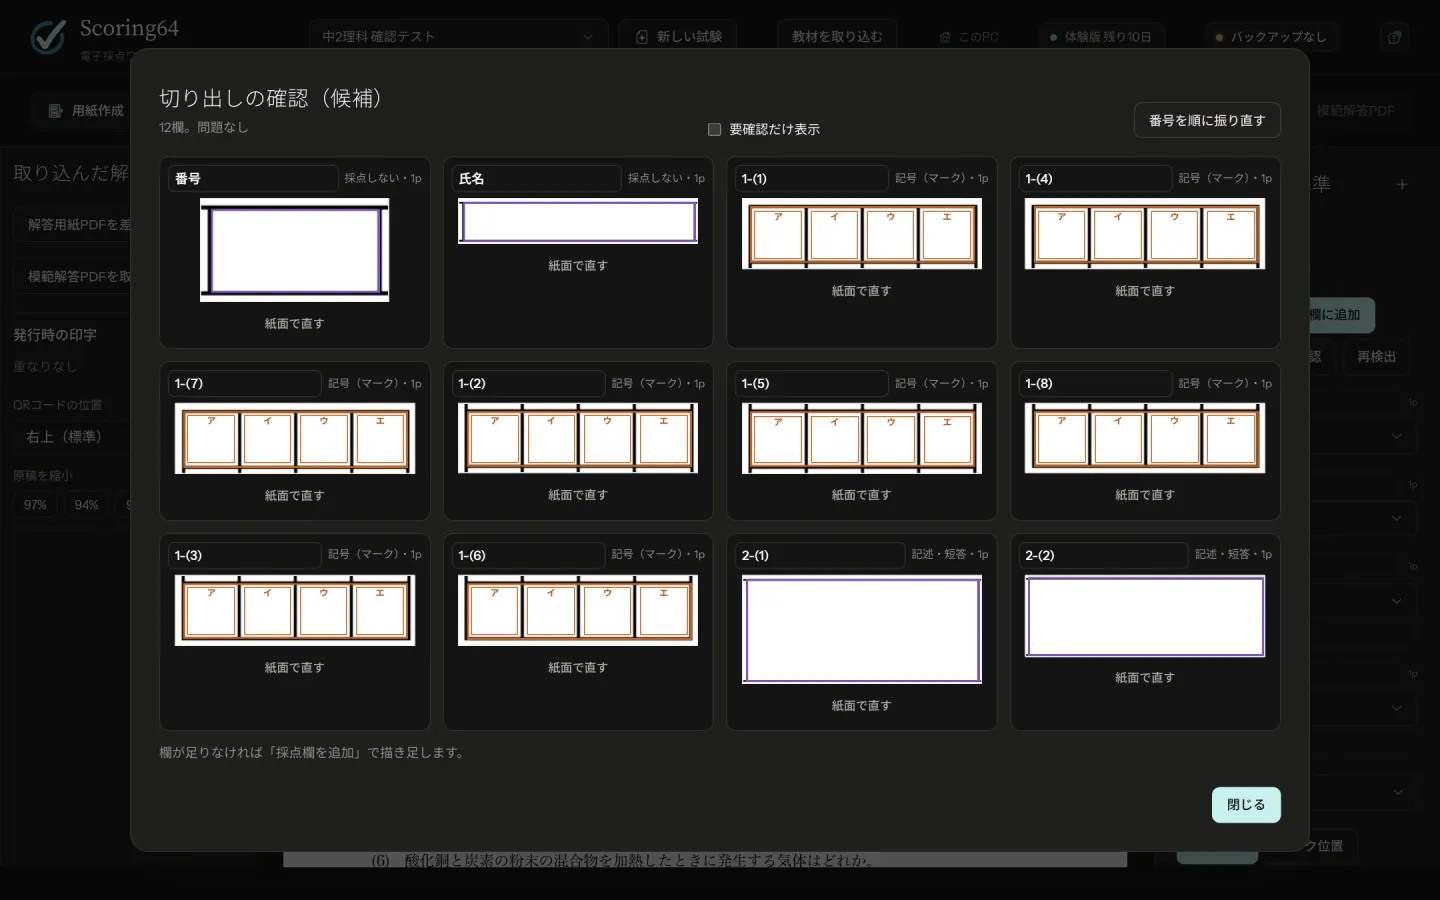
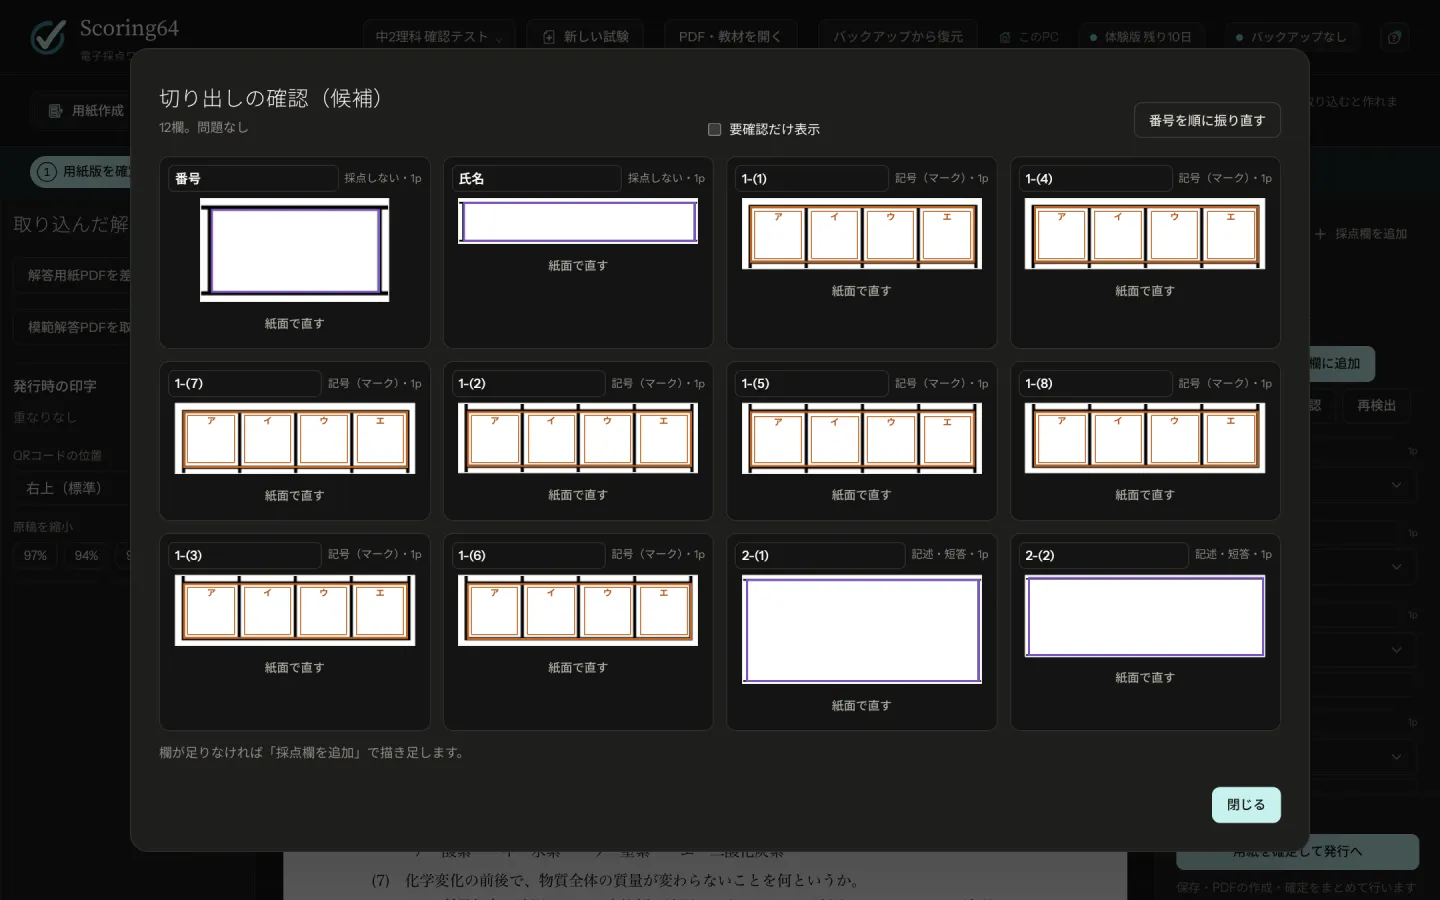
Show the reworked app: new photos and the new button names in the steps

diff --git a/guide.html b/guide.html
@@ -66,7 +66,7 @@
       <p>いつもの Word・Excel のプリントを、そのまま使えます。</p>
       <ol class="steps">
         <li>Word・Excel で<span class="ui">「ファイル」</span>→<span class="ui">「名前を付けて保存」</span>を選び、PDFで保存します。紙しかないときは、300dpiでスキャンしてPDFにします。</li>
-        <li><span class="ui">「教材を取り込む」</span>から、そのPDFを選びます。</li>
+        <li>画面の上の<span class="ui">「PDF・教材を開く」</span>から、そのPDFを選びます。</li>
         <li>解答欄の<b>候補</b>が出ます。紫は記述、橙は記号の欄です。</li>
         <li>候補を1つずつ確かめます。違っていたら、クリックして種類・番号・範囲を直します。</li>
         <li><span class="ui">「採用した候補を採点欄に追加」</span>を押し、<span class="ui">「切り出しを一覧で確認」</span>で範囲を確かめます。</li>
@@ -103,7 +103,7 @@
         <li>右の欄の<span class="ui">「正解・配点を一覧で入力」</span>を押します。</li>
         <li>記号問題の正解を、順に打ちます（例：<code>3142</code>）。Excel の正解表を貼り付けることもできます。</li>
         <li>配点と採点方式を選びます。</li>
-        <li>右上の<span class="ui">「確定用PDFを生成」</span>→<span class="ui">「印刷に使う用紙版を確定」</span>を押します。</li>
+        <li>右上の<span class="ui">「用紙を確定して発行へ」</span>を押します。確かめる点が一覧で出るので、<span class="ui">「保存して確定する」</span>を押します。保存・印刷用PDFの作成・用紙版の確定が続けて進みます。</li>
       </ol>
       <figure class="shot wide">
         <a class="zoom" href="assets/img/s08-answer-key.webp"><img src="assets/img/s08-answer-key.webp" width="1440" height="900" loading="lazy" alt="正解・配点の一覧の画面。問題ごとに正解、配点、採点方式を入れる行が並ぶ"></a>
@@ -132,7 +132,7 @@
       <div class="side">
         <div>
           <ol class="steps">
-            <li><span class="ui">「答案取込」</span>のタブで、人数を入れます。名簿があるときは<span class="ui">「名簿CSVを選ぶ」</span>で読み込みます（見出しは <code>番号,氏名</code>）。</li>
+            <li><span class="ui">「発行・取込」</span>のタブで、人数を入れます。名簿があるときは<span class="ui">「名簿CSVを選ぶ」</span>で読み込みます（1行目が見出し：<code>番号,氏名</code> か <code>組,番,氏名</code>）。</li>
             <li>名前を印刷しておくときは、<span class="ui">「氏名・生徒番号を事前印字」</span>にチェックを入れます。</li>
             <li><span class="ui">「印刷用PDFを作成」</span>を押し、できたPDFを<b>等倍</b>で印刷します。</li>
           </ol>
@@ -146,7 +146,7 @@
           </div>
         </div>
         <figure class="shot tall">
-          <a class="zoom" href="assets/img/s09-issue.webp"><img src="assets/img/s09-issue.webp" width="420" height="908" loading="lazy" alt="用紙の発行の欄。人数、名簿CSVを選ぶ、氏名・生徒番号を事前印字、印刷用PDFを作成のボタンが並ぶ"></a>
+          <a class="zoom" href="assets/img/s09-issue.webp"><img src="assets/img/s09-issue.webp" width="420" height="1073" loading="lazy" alt="用紙の発行の欄。人数、名簿CSVを選ぶ、氏名・生徒番号を事前印字、印刷用PDFを作成のボタンが並ぶ"></a>
           <figcaption><span class="fig-no">図 4</span>用紙の発行</figcaption>
         </figure>
       </div>
@@ -159,8 +159,8 @@
       <h2 id="step4-title">答案をスキャンして取り込む</h2>
       <ol class="steps">
         <li>答案を複合機で読み取り、PDFにします。クラス分をまとめて1つのPDFにして構いません。</li>
-        <li><span class="ui">「PDFを選んで取り込む」</span>から読み込みます。向きと表裏の順番は、QRコードで自動で整えます。</li>
-        <li>上の<span class="ui">「未対応」</span><span class="ui">「答案なし」</span><span class="ui">「氏名を確認」</span>で、残っているものを確かめます。</li>
+        <li>左の<span class="ui">「スキャンPDF」</span>に、PDFを選ぶかドラッグして入れます。複数のファイル・両面にも対応します。向きと表裏の順番は、QRコードで自動で整えます。</li>
+        <li><span class="ui">「取り込んだ答案」</span>の上の<span class="ui">「直すページ」</span>（誰の答案か分からない・位置合わせに失敗・重複）、<span class="ui">「答案がまだない用紙を見る」</span>、<span class="ui">「氏名を確認」</span>で、残っているものを確かめます。</li>
       </ol>
       <table class="table stack" aria-label="スキャナーの設定">
         <tr><th scope="row">解像度</th><td>200〜300dpi</td></tr>
@@ -169,8 +169,8 @@
         <tr><th scope="row">用紙サイズ</th><td>印刷したときと同じ</td></tr>
       </table>
       <figure class="shot wide">
-        <a class="zoom" href="assets/img/s09-scan.webp"><img src="assets/img/s09-scan.webp" width="1440" height="900" loading="lazy" alt="答案取込のタブ。左に用紙の発行とスキャンPDFの取り込み、右に取り込んだ5人分の答案が並ぶ"></a>
-        <figcaption><span class="fig-no">図 5</span>答案取込のタブ。左で発行し、右で取り込んだ答案を確かめます</figcaption>
+        <a class="zoom" href="assets/img/s09-scan.webp"><img src="assets/img/s09-scan.webp" width="1440" height="900" loading="lazy" alt="発行・取込のタブ。左に用紙の発行とスキャンPDFの取り込み、右に取り込んだ5人分の答案が並ぶ"></a>
+        <figcaption><span class="fig-no">図 5</span>発行・取込のタブ。左で発行し、右で取り込んだ答案を確かめます</figcaption>
       </figure>
     </div>
   </section>
@@ -184,8 +184,8 @@
       <h3>記述問題は1問ずつ</h3>
       <ol class="steps">
         <li><span class="ui">「採点」</span>のタブで問題を選びます。</li>
-        <li>答案が1人ずつ大きく出ます。<span class="ui">「満点」</span><span class="ui">「0点」</span><span class="ui">「部分点」</span>で採点すると、次の生徒に進みます。</li>
-        <li>必要なら<span class="ui">「コメントを追加」</span>で答案に書き込みます。</li>
+        <li>答案が1人ずつ大きく出ます。<span class="ui">「○」</span>（満点）・<span class="ui">「△」</span>（部分点）・<span class="ui">「✓」</span>（0点）のボタンで採点すると、次の生徒に進みます。キーボードなら Space で満点、0 で0点、数字で部分点です。</li>
+        <li>必要なら<span class="ui">「コメントを置く」</span>（C キー）で答案に書き込みます。</li>
       </ol>
       <figure class="shot wide">
         <a class="zoom" href="assets/img/s10-grading.webp"><img src="assets/img/s10-grading.webp" width="1440" height="900" loading="lazy" alt="記述問題の採点画面。上に模範解答、中央に生徒の答案、右に採点の一覧が出ている"></a>

diff --git a/faq.html b/faq.html
@@ -3,7 +3,7 @@
 <head>
 <meta charset="utf-8">
 <title>よくある質問｜Scoring64</title>
-<meta name="description" content="要確認・未対応になるとき、画面が開かないとき、動作環境、データ、料金についての質問と答え。">
+<meta name="description" content="要確認・直すページになるとき、画面が開かないとき、動作環境、データ、料金についての質問と答え。">
 <meta name="viewport" content="width=device-width, initial-scale=1">
 <link rel="icon" href="assets/favicon.svg" type="image/svg+xml">
 <link rel="preconnect" href="https://fonts.googleapis.com">
@@ -57,9 +57,9 @@
       </div>
 
       <div class="qa" id="q-unmatched">
-        <h3>答案が「未対応」になる</h3>
+        <h3>答案が「直すページ」に入る</h3>
         <div class="a">
-          <p>QRコードが読めていません。折れ・汚れ・大きな傾きがないか確かめ、200dpi以上で読み取り直してください。</p>
+          <p>QRコードが読めていないか、位置合わせに失敗しています。折れ・汚れ・大きな傾きがないか確かめ、200dpi以上で読み取り直してください。</p>
           <p>縮小して印刷した用紙も読めますが、スキャンは印刷したときと同じ用紙サイズで行います。</p>
         </div>
       </div>

diff --git a/start.html b/start.html
@@ -108,7 +108,7 @@
         <p>画面はブラウザに出ますが、インターネットにはつながず、このパソコンの中だけで動きます。</p>
       </div>
       <figure class="shot wide">
-        <a class="zoom" href="assets/img/s01-welcome.webp"><img src="assets/img/s01-welcome.webp" width="1440" height="900" loading="lazy" alt="Scoring64 の最初の画面。上に「新しい試験」「教材を取り込む」「バックアップ」のボタンが並ぶ"></a>
+        <a class="zoom" href="assets/img/s01-welcome.webp"><img src="assets/img/s01-welcome.webp" width="1440" height="900" loading="lazy" alt="Scoring64 の最初の画面。上に「新しい試験」「PDF・教材を開く」「バックアップから復元」のボタンが並ぶ"></a>
         <figcaption><span class="fig-no">図 3</span>最初の画面</figcaption>
       </figure>
     </div>
